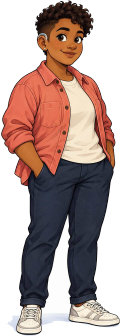
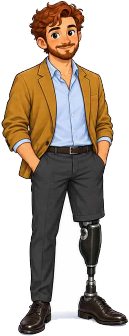
Cast: professional set with face pictures for the floor
Fifteen professional renders replace the twelve casual figures
(cast-10..21). Each card is split into the full standee (cast-NN.png)
and a waist-up crop (cast-NN-face.png). The floor's everyone view and
the pickers show the face crop, since the full figure reads too small
there; focus mode, the receded row and the office page keep the
standee. An office may supply its own face.png beside avatar.png.

Claude-Session: https://claude.ai/code/session_018VsFXELZvCTKMdssw7A47m

diff --git a/test/state.test.js b/test/state.test.js
@@ -64,14 +64,16 @@ test('snapshot carries identity, avatar choice, briefing sections and log', () =
   assert.equal(s.role, 'Headhunter');
   assert.equal(s.model, 'sonnet');
   assert.equal(s.accent, '#123456');
-  assert.deepEqual(s.avatar, { source: 'none', url: null });
+  assert.deepEqual(s.avatar, { source: 'none', url: null, face: null });
   assert.equal(s.briefing.sections[0].kind, 'keyFacts');
   assert.equal(s.log[0].date, '2026-09-20');
   assert.deepEqual(s.files, ['people.md']);
   assert.equal(s.status, null);
-  assert.deepEqual(snap({ office: office({ avatar: 'cast-04.png' }) }).avatar, { source: 'cast', url: '/avatars/cast/cast-04.png' });
-  assert.deepEqual(snap({ office: office({ avatar: 'lila.png' }) }).avatar, { source: 'cast', url: '/avatars/cast/cast-04.png' }, 'an old name resolves through the alias map');
-  assert.deepEqual(snap({ files: files({ images: { avatar: true, office: true } }) }).avatar, { source: 'office', url: '/avatars/Prospects/avatar.png' });
+  assert.deepEqual(snap({ office: office({ avatar: 'cast-04.png' }) }).avatar, { source: 'cast', url: '/avatars/cast/cast-04.png', face: null });
+  assert.deepEqual(snap({ office: office({ avatar: 'lila.png' }) }).avatar, { source: 'cast', url: '/avatars/cast/cast-04.png', face: null }, 'an old name resolves through the alias map');
+  assert.deepEqual(snap({ office: office({ avatar: 'cast-11.png' }), files: files({ castFaces: new Set(['cast-11-face.png']) }) }).avatar, { source: 'cast', url: '/avatars/cast/cast-11.png', face: '/avatars/cast/cast-11-face.png' }, 'a face twin is offered');
+  assert.deepEqual(snap({ files: files({ images: { avatar: true, office: true } }) }).avatar, { source: 'office', url: '/avatars/Prospects/avatar.png', face: null });
+  assert.equal(snap({ files: files({ images: { avatar: true, face: true, office: false } }) }).avatar.face, '/avatars/Prospects/face.png');
   assert.equal(snap({ files: files({ images: { avatar: false, office: true } }) }).officeImage, '/avatars/Prospects/office.png');
   assert.equal(snap({ files: files({ briefing: null, log: null }) }).briefing, null);
   assert.equal(snap({ files: files({ briefing: null, log: null }) }).log, null);

diff --git a/public/js/lobby.js b/public/js/lobby.js
@@ -69,8 +69,12 @@
     return '';
   }
 
+  /* On the crowded floor a waist-up picture reads better than a whole
+     figure; the full standee comes back when the person is focused. */
   function figure(o) {
-    return o.avatar && o.avatar.url ? `<img src="${esc(o.avatar.url)}" alt="">` : silhouette(o.accent);
+    if (!o.avatar || !o.avatar.url) return silhouette(o.accent);
+    if (o.avatar.face) return `<img class="full" src="${esc(o.avatar.url)}" alt=""><img class="face" src="${esc(o.avatar.face)}" alt="">`;
+    return `<img src="${esc(o.avatar.url)}" alt="">`;
   }
 
   function personHTML(o) {
@@ -248,7 +252,7 @@
   function pickerHTML(opts, accent) {
     const swatches = opts.accents.map((a) => `<span class="swatch ${a === accent ? 'on' : ''}" data-accent="${esc(a)}" style="background:${esc(a)}"></span>`).join('');
     const own = `<label class="on"><input type="radio" name="avatar" value="own" checked><div class="fig">${silhouette(accent)}</div>Supply my own</label>`;
-    const cast = opts.cast.map((c) => `<label><input type="radio" name="avatar" value="${esc(c.file)}"><div class="fig"><img src="${esc(c.url)}" alt=""></div></label>`).join('');
+    const cast = opts.cast.map((c) => `<label><input type="radio" name="avatar" value="${esc(c.file)}"><div class="fig"><img src="${esc(c.faceUrl || c.url)}" alt=""></div></label>`).join('');
     return `<label>Accent colour<input name="accent" value="${esc(accent)}" pattern="#[0-9a-fA-F]{6}"><div class="swatches">${swatches}</div></label>
       <label>Standee<span class="path-note"> a starter picture, or drop your own avatar.png into the office later</span></label><div class="cast">${own}${cast}</div>`;
   }

diff --git a/server/lib/store.js b/server/lib/store.js
@@ -14,7 +14,7 @@ const transcripts = require('./transcripts');
 const git = require('./git');
 const { createWatcher } = require('./watch');
 const { createHub } = require('./sse');
-const { dirExists } = require('./reader');
+const { dirExists, castFaceSet } = require('./reader');
 
 /* `sources` lets tests replace the CLI and git with fixtures. */
 function createStore(cfg, { live = true, now = () => new Date(), sources = {} } = {}) {
@@ -35,6 +35,7 @@ function createStore(cfg, { live = true, now = () => new Date(), sources = {} } 
 
   function build() {
     const at = now();
+    const castFaces = castFaceSet(cfg.appRoot);
     const offices = staff.discoverOffices(cfg.staffDir);
     const { cos, warnings } = staff.chiefOfStaff(offices);
     const { byOffice, frontDesk } = sessions.attribute(liveSessions, offices, cfg.staffDir);
@@ -43,6 +44,7 @@ function createStore(cfg, { live = true, now = () => new Date(), sources = {} } 
     for (const o of offices) {
       try {
         const files = office.readOffice(o.folder, { cos: cos !== null && cos.id === o.id });
+        files.castFaces = castFaces;
         const list = byOffice[o.id] || [];
         const transcript = live ? reader.summarise(o.folder, list[0] || null) : null;
         snapshots.push(state.buildOfficeSnapshot({

diff --git a/server/lib/reader.js b/server/lib/reader.js
@@ -5,12 +5,18 @@
    snapshot is honest about what it knows: no session, no git, files only. */
 
 const fs = require('fs');
+const path = require('path');
 const staff = require('./staff');
 const office = require('./office');
 const state = require('./state');
 
 function staffExists(staffDir) {
   return staff.discoverOffices(staffDir).length > 0;
+}
+
+/* The cast's -face.png twins, so a snapshot can offer a face picture. */
+function castFaceSet(appRoot) {
+  try { return new Set(fs.readdirSync(path.join(appRoot, 'assets', 'avatars')).filter((f) => /-face\.png$/i.test(f))); } catch { return new Set(); }
 }
 
 function dirExists(dir) {
@@ -30,6 +36,7 @@ function readAll(config, { now = new Date(), live = {} } = {}) {
   for (const o of offices) {
     try {
       const files = office.readOffice(o.folder, { cos: cos !== null && cos.id === o.id });
+      files.castFaces = castFaceSet(config.appRoot);
       const sessions = (live.sessionsByOffice && live.sessionsByOffice[o.id]) || [];
       snapshots.push(state.buildOfficeSnapshot({
         office: o,
@@ -66,4 +73,4 @@ function readAll(config, { now = new Date(), live = {} } = {}) {
   };
 }
 
-module.exports = { readAll, staffExists, dirExists };
+module.exports = { readAll, staffExists, dirExists, castFaceSet };

diff --git a/server/lib/state.js b/server/lib/state.js
@@ -85,10 +85,16 @@ function briefingFor(text, now) {
   return { sections };
 }
 
+/* `face` is a waist-up picture for the floor, where whole figures are
+   small: the office's own face.png, or the cast picture's -face twin. */
 function avatarFor(office, files) {
-  if (files.images.avatar) return { source: 'office', url: `/avatars/${encodeURIComponent(office.id)}/avatar.png` };
-  if (office.conf.avatar) return { source: 'cast', url: `/avatars/cast/${encodeURIComponent(castFile(office.conf.avatar))}` };
-  return { source: 'none', url: null };
+  if (files.images.avatar) return { source: 'office', url: `/avatars/${encodeURIComponent(office.id)}/avatar.png`, face: files.images.face ? `/avatars/${encodeURIComponent(office.id)}/face.png` : null };
+  if (office.conf.avatar) {
+    const file = castFile(office.conf.avatar);
+    const twin = file.replace(/\.png$/i, '-face.png');
+    return { source: 'cast', url: `/avatars/cast/${encodeURIComponent(file)}`, face: files.castFaces && files.castFaces.has(twin) ? `/avatars/cast/${encodeURIComponent(twin)}` : null };
+  }
+  return { source: 'none', url: null, face: null };
 }
 
 /* One office's snapshot. `session` is the newest live session attributed to

diff --git a/server/server.js b/server/server.js
@@ -103,7 +103,7 @@ function createHandler(cfg, store) {
     }
     /* /avatars/<office>/avatar.png, office.png, or people/<image>. */
     const isPeople = parts.length === 3 && parts[1] === 'people' && /\.(png|jpe?g|gif|webp)$/i.test(parts[2]);
-    if (!isPeople && (parts.length !== 2 || !['avatar.png', 'office.png'].includes(parts[1]))) return json(res, 404, { error: 'not found' });
+    if (!isPeople && (parts.length !== 2 || !['avatar.png', 'face.png', 'office.png'].includes(parts[1]))) return json(res, 404, { error: 'not found' });
     const officeDir = resolveSafe(cfg.staffDir, parts[0]);
     if (!officeDir || path.dirname(officeDir) !== cfg.staffDir) return json(res, 404, { error: 'not found' });
     if (!fs.existsSync(path.join(officeDir, 'aa.conf'))) return json(res, 404, { error: 'not found' });

diff --git a/public/js/hire.js b/public/js/hire.js
@@ -10,7 +10,7 @@
 
   function renderCast() {
     const own = `<label class="on"><input type="radio" name="avatar" value="own" checked><div class="fig">${silhouette($('#accent').value)}</div>I'll supply my own</label>`;
-    $('#cast').innerHTML = own + opts.cast.map((c) => `<label><input type="radio" name="avatar" value="${esc(c.file)}"><div class="fig"><img src="${esc(c.url)}" alt=""></div></label>`).join('');
+    $('#cast').innerHTML = own + opts.cast.map((c) => `<label><input type="radio" name="avatar" value="${esc(c.file)}"><div class="fig"><img src="${esc(c.faceUrl || c.url)}" alt=""></div></label>`).join('');
     $('#cast').addEventListener('change', () => {
       document.querySelectorAll('#cast label').forEach((l) => l.classList.toggle('on', l.querySelector('input').checked));
     });

diff --git a/server/lib/hire.js b/server/lib/hire.js
@@ -35,7 +35,11 @@ function castList(appRoot) {
   const dir = path.join(appRoot, 'assets', 'avatars');
   let entries;
   try { entries = fs.readdirSync(dir); } catch { return []; }
-  return entries.filter((f) => /\.png$/i.test(f)).sort().map((file) => ({ file, url: `/avatars/cast/${encodeURIComponent(file)}`, label: '' }));
+  const faces = new Set(entries.filter((f) => /-face\.png$/i.test(f)));
+  return entries.filter((f) => /\.png$/i.test(f) && !faces.has(f)).sort().map((file) => ({
+    file, url: `/avatars/cast/${encodeURIComponent(file)}`, label: '',
+    faceUrl: faces.has(file.replace(/\.png$/i, '-face.png')) ? `/avatars/cast/${encodeURIComponent(file.replace(/\.png$/i, '-face.png'))}` : null
+  }));
 }
 
 const { castFile, CAST_ALIASES } = require('./cast');

diff --git a/public/styles.css b/public/styles.css
@@ -498,3 +498,10 @@ details.about[open] summary { margin-bottom: 10px; }
 .msg .tool pre { background: var(--paper-deep); padding: 6px 8px; border-radius: 5px; font-size: 11.5px; max-height: 260px; overflow: auto; white-space: pre-wrap; word-break: break-word; margin: 4px 0 0; }
 .convo .earlier { align-self: center; margin-bottom: 4px; }
 .convo .none { color: var(--muted); font-style: italic; font-size: 14px; }
+
+/* face pictures on the floor: the face shows on the everyone view, the full
+   figure when focused or receded */
+.person .fig img.full { display: none; }
+.person .fig img.face { display: block; }
+.floor.focus .person .fig img.full { display: block; }
+.floor.focus .person .fig img.face { display: none; }

diff --git a/server/lib/office.js b/server/lib/office.js
@@ -15,6 +15,7 @@ const OWNED = Object.freeze({
   status: 'status.md',
   claude: 'CLAUDE.md',
   avatar: 'avatar.png',
+  face: 'face.png',
   office: 'office.png',
   mornings: 'mornings'
 });
@@ -83,6 +84,7 @@ function readOffice(folder, { cos = false } = {}) {
     mtimes: { readme: readme.mtime, briefing: briefing.mtime, log: log.mtime, status: status.mtime },
     images: {
       avatar: exists(path.join(folder, OWNED.avatar)),
+      face: exists(path.join(folder, OWNED.face)),
       office: exists(path.join(folder, OWNED.office))
     },
     people: peopleImages(folder),

diff --git a/blueprint/DECISIONS.md b/blueprint/DECISIONS.md
@@ -27,7 +27,7 @@ These came from Luke directly and are not up for re-guessing.
 ## Rulings from Luke: the cast (2026-09-28)
 
 - The starter cast suggests no names or roles. Files are `cast-NN.png`; the pickers show pictures only. Props stay, since a megaphone reads as a role by sight without the file asserting one.
-- Luke supplies the pictures, generated in the AMS style on white; AAR cuts them out (`npm run avatar`). Twenty-one figures were supplied; Luke may trim the cast later by deleting files.
+- Luke supplies the pictures, generated in the AMS style on white; AAR cuts them out (`npm run avatar`). Fifteen professional renders (2026-09-28) replaced the twelve casual figures; each comes as a card with a waist-up crop, kept as `cast-NN-face.png` and shown where figures are small (everyone view, pickers), since the full standee reads too small there. Luke may trim the cast later by deleting files.
 
 Build-level guesses:
 - The nine AMS standees are `cast-01` to `cast-09` in their old alphabetical order; the old names keep working through an alias map and are written back as the numbered file.

diff --git a/docs/conventions.md b/docs/conventions.md
@@ -113,6 +113,7 @@ this page. Everything outside the block is yours.
 | File | Use |
 |---|---|
 | `avatar.png` | The standee. Transparent PNG, about 340 px tall, no wider than 260. Overrides the `avatar=` key. |
+| `face.png` | Optional waist-up picture, shown where figures are small: the floor's everyone view and the pickers. Focus mode and the office page use the standee. Falls back to the standee. Cast pictures carry their own as `cast-NN-face.png`. |
 | `office.png` | The office page's background scene, 16:9, at least 1600 px wide, washed with paper so the cards stay readable. Optional. |
 | `people/*.png`, `.jpg`, `.gif`, `.webp` | Pictures for the People section, captioned from the file name. |
 
